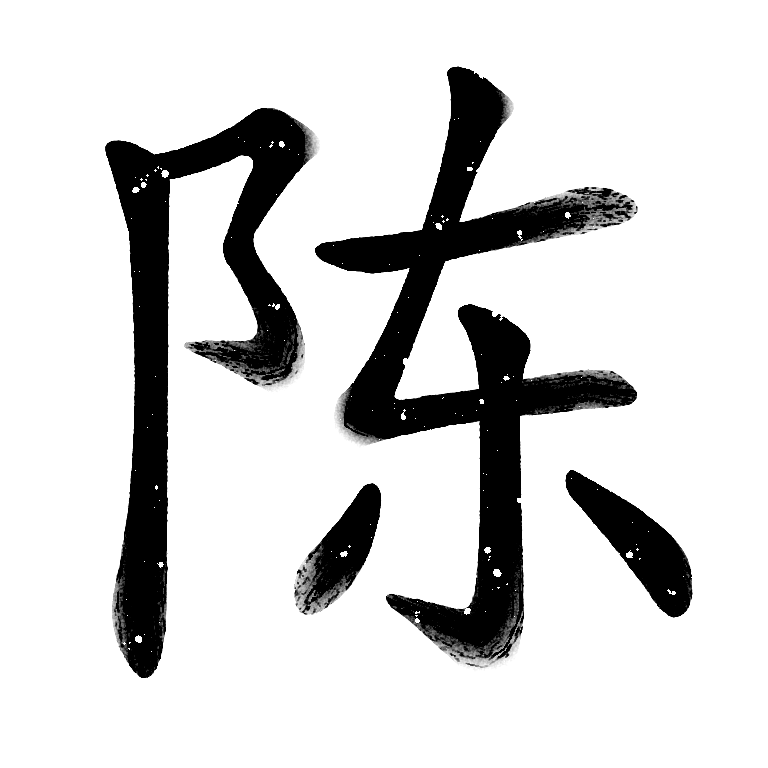
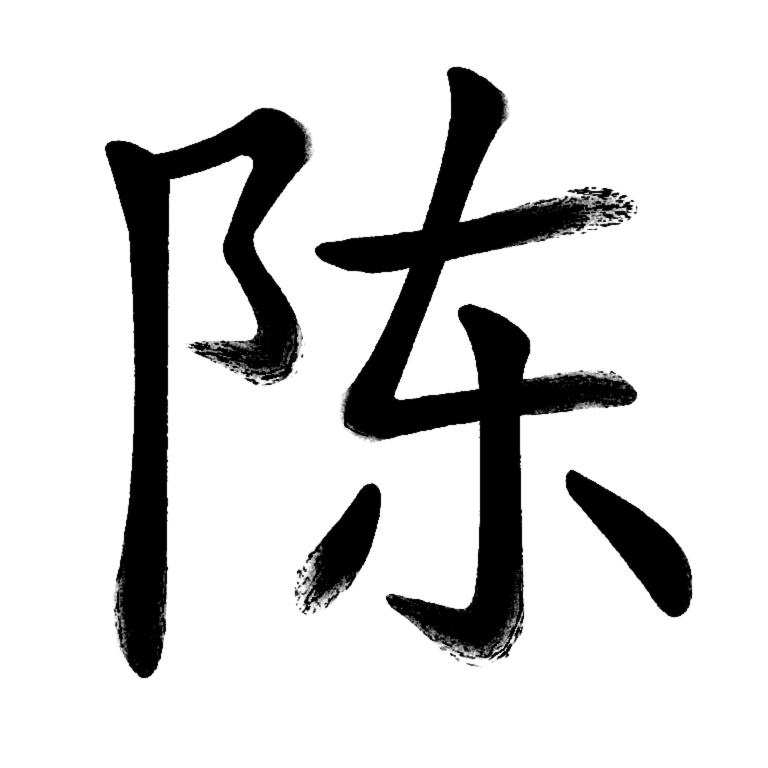
Crisp black name with live white paint flicks; click the name to flick more
Claude-Session: https://claude.ai/code/session_01T5woLKjRtQDJP5PPED7MXK

diff --git a/index.html b/index.html
@@ -329,7 +329,7 @@ dialog.drawer[open]{animation:slide .5s var(--ease)}
     <p class="fine" aria-hidden="true">Caroline Chen / Portfolio 2026 / UX, brand, print, motion</p>
     <div class="hero-foot">
       <div><p class="tag">Watch people.<br>Then build.</p><p class="who">Caroline Chen, a designer across UX, brand, print and motion, trained in design and economics.</p></div>
-      <span class="hint" id="hint">Hover the name, or click anywhere</span>
+      <span class="hint" id="hint">Click the name to flick paint</span>
       <div class="right"><p><span class="pill"><span class="dot" aria-hidden="true"></span>Open to full-time roles</span></p><button class="btn sm replay" type="button" id="replay"><span class="ico ico-knot" aria-hidden="true"></span>Write it again</button></div>
     </div>
   </section>
@@ -829,21 +829,46 @@ tick(); setInterval(tick,15000);
   function texture(){}
   function redrawGlyph(){ gx.setTransform(1,0,0,1,0,0); gx.clearRect(0,0,glyph.width,glyph.height); SEQ.forEach((s,k)=>{ if(drawn[k]>0) paintStroke(k,drawn[k]); }); if(done) texture(); syncLayers(); }
   function redrawMarks(){ mx.setTransform(1,0,0,1,0,0); mx.clearRect(0,0,mk.width,mk.height); SEQ.forEach((s,k)=>{ if(air[k]>0) drawAir(k,air[k]); }); }
+  /* white paint flicked across the ink: drops live in each character's own space so they stay put on resize */
+  const drops=[]; let spatUntil=0;
+  function flick(x0,y0,ang,power,delay=0){
+    const now=performance.now()+delay, R=rng((x0*7+y0*13+drops.length*31)|0), u=G/1024;
+    const add=(x,y,r,el,a,dt)=>{ let ci=0,best=1e9; boxes.forEach((b,i)=>{ const d=Math.hypot(x-(b.x+G/2),y-(b.y+G/2)); if(d<best){best=d;ci=i;} });
+      drops.push({ci,x:(x-boxes[ci].x)/G,y:(y-boxes[ci].y)/G,r:r/G,el,a,t:now+dt,lump:[R(),R(),R()]}); };
+    const ca=Math.cos(ang), sa=Math.sin(ang);
+    add(x0,y0,power*(5+R()*4)*u*3,1+R()*.3,ang,0);                       // the landing blot
+    const n=11+Math.floor(R()*12);
+    for(let k=1;k<=n;k++){ const d=power*u*3*(8+k*k*1.1+R()*16), sp=(R()-.5)*d*.3, r=power*u*3*Math.max(.55,(4.6-k*.22)*(.45+R()*.8));
+      add(x0+ca*d-sa*sp, y0+sa*d+ca*sp, r, 1.3+R()*1.6+k*.08, ang, 18*k+R()*30); }
+    for(let k=0;k<46;k++){ const d=power*u*3*(4+Math.pow(R(),.7)*80), q=ang+(R()-.5)*2.2; add(x0+Math.cos(q)*d,y0+Math.sin(q)*d,u*3*(.4+Math.pow(R(),2)*1.6),1+R()*.4,q,30+R()*200); }  // mist
+    if(drops.length>900) drops.splice(0,drops.length-900);
+    spatUntil=Math.max(spatUntil,now+600);
+  }
+  function paintSpatter(){
+    const now=performance.now(); ix.save(); ix.setTransform(DPR,0,0,DPR,0,0); ix.fillStyle="#fbfaf7";
+    for(const d of drops){ const age=now-d.t; if(age<0) continue; const k=reduce?1:Math.min(1,age/140), pop=k<1?k*1.18:1;
+      const b=boxes[d.ci], x=b.x+d.x*G, y=b.y+d.y*G, r=d.r*G*pop; if(r<.25) continue;
+      ix.beginPath(); ix.ellipse(x,y,r*d.el,r,d.a,0,6.2832); ix.fill();
+      if(r>1.4){ for(let j=0;j<3;j++){ const q=d.a+d.lump[j]*6.28, rr=r*(.45+.3*d.lump[(j+1)%3]); ix.beginPath(); ix.arc(x+Math.cos(q)*r*.75,y+Math.sin(q)*r*.75,rr,0,6.2832); ix.fill(); } } }
+    ix.restore();
+  }
+  function flickSet(){ const cx=bbox.x, cy=bbox.y; const P=vertical?[[.15,.2,.9],[.85,1.3,2.2],[.2,2.1,.6],[.6,.75,-.4],[.5,2.5,3.6]]:[[.35,.25,.25],[1.55,.7,2.9],[2.45,.2,1.9],[.9,.85,-.3],[2.1,.55,.6],[.25,.7,1.2],[1.35,.15,3.4]];
+    P.forEach(([u,v,a],i)=>flick(cx+u*G,cy+v*G,a+(Math.random()-.5)*.4,.8+Math.random()*.5,i*260)); }
   const TEX=[0,1,2].map(i=>{ const im=new Image(); im.src=`assets/sym/name-${i}.webp`; return im; });
   const texC=document.createElement("canvas"), tx=texC.getContext("2d"), inkd=document.createElement("canvas"), ix=inkd.getContext("2d");
   function buildTex(){ texC.width=inkd.width=glyph.width; texC.height=inkd.height=glyph.height; tx.setTransform(DPR,0,0,DPR,0,0); tx.clearRect(0,0,W,H); TEX.forEach((im,i)=>{ if(im.complete&&im.naturalWidth) tx.drawImage(im,boxes[i].x,boxes[i].y,G,G); }); }
-  function syncLayers(){ ix.setTransform(1,0,0,1,0,0); ix.globalCompositeOperation="source-over"; ix.clearRect(0,0,inkd.width,inkd.height); ix.drawImage(texC,0,0); ix.globalCompositeOperation="destination-in"; ix.drawImage(glyph,0,0); ix.globalCompositeOperation="source-over"; }
+  function syncLayers(){ ix.setTransform(1,0,0,1,0,0); ix.globalCompositeOperation="source-over"; ix.clearRect(0,0,inkd.width,inkd.height); ix.drawImage(texC,0,0); ix.globalCompositeOperation="destination-in"; ix.drawImage(glyph,0,0); ix.globalCompositeOperation="source-over"; paintSpatter(); }
 
   // ripples: rings on the paper; the name refracts as each ring passes through it
   function liveRipples(now){
     ripples=ripples.filter(r=>now-r.t<LIFE);
     const out=[]; const cx=bbox.x+bbox.w/2, cy=bbox.y+bbox.h/2, half=Math.hypot(bbox.w,bbox.h)/2+G*.2;
-    for(const rp of ripples){ const age=now-rp.t, r=age*SPEED, band=46+age*.025, amp=G*.075*(1-age/LIFE), d=Math.hypot(cx-rp.x,cy-rp.y);
+    for(const rp of ripples){ const age=Math.max(0,now-rp.t), r=age*SPEED, band=46+age*.025, amp=G*.075*(1-age/LIFE), d=Math.hypot(cx-rp.x,cy-rp.y);
       if(r+band>d-half && r-band<d+half) out.push({x:rp.x,y:rp.y,r,band,amp}); }
     return out;
   }
   function drawRipples(now){
-    for(const rp of ripples){ const age=now-rp.t, a=1-age/LIFE; if(a<=0) continue; const r=age*SPEED;
+    for(const rp of ripples){ const age=Math.max(0,now-rp.t), a=1-age/LIFE; if(a<=0) continue; const r=age*SPEED;
       const g=bx.createRadialGradient(rp.x,rp.y,Math.max(0,r-30),rp.x,rp.y,r+30); g.addColorStop(0,"rgba(0,0,0,0)"); g.addColorStop(.5,`rgba(0,0,0,${.075*a})`); g.addColorStop(1,"rgba(0,0,0,0)");
       bx.fillStyle=g; bx.beginPath(); bx.arc(rp.x,rp.y,r+30,0,7); bx.fill();
       bx.lineWidth=1; [[1,.3],[.9,.16],[.79,.09],[.66,.05]].forEach(([m,al])=>{ bx.strokeStyle=`rgba(0,0,0,${al*a})`; bx.beginPath(); bx.arc(rp.x,rp.y,r*m,0,7); bx.stroke(); });
@@ -869,13 +894,14 @@ tick(); setInterval(tick,15000);
         if(f>drawn[k]){ const e=ease(f); paintStroke(k,e); drawn[k]=f; if(f<1){ const c=CH[s.ci]; tip=toScreen(s.ci,pointAt(c.med[s.si],c.len[s.si],e)); } }
       });
       syncLayers();
-      if(t>=WRITE_END){ done=true; drawn=SEQ.map(()=>1); air=SEQ.map(()=>1); redrawGlyph(); hero.classList.add("done","scan"); artT=now; ripples.push({x:bbox.x+bbox.w/2,y:bbox.y+bbox.h/2,t:now}); }
+      if(t>=WRITE_END){ done=true; drawn=SEQ.map(()=>1); air=SEQ.map(()=>1); redrawGlyph(); hero.classList.add("done","scan"); artT=now; flickSet(); ripples.push({x:bbox.x+bbox.w/2,y:bbox.y+bbox.h/2,t:now}); }
       else if(t>WRITE_END*.5 && artT<0){ artT=now; hero.classList.add("scan"); }
     }
     render(now,tip);
   }
 
   function render(now,tip){
+    if(now<spatUntil) syncLayers();
     pmx+=(tmx-pmx)*.06; pmy+=(tmy-pmy)*.06;
     mk.style.transform=`translate(${pmx*8}px,${pmy*6}px)`;
     bx.setTransform(DPR,0,0,DPR,0,0); bx.clearRect(0,0,W,H);
@@ -907,12 +933,12 @@ tick(); setInterval(tick,15000);
   }
 
   function loop(now){ frame(now); if(visible) raf=requestAnimationFrame(loop); }
-  function finish(){ drawn=SEQ.map(()=>1); air=SEQ.map(()=>1); done=true; artT=1; hero.classList.add("done","scan"); redrawGlyph(); redrawMarks(); render(performance.now(),null); }
-  function replay(){ start=performance.now(); drawn=SEQ.map(()=>0); air=SEQ.map(()=>0); done=false; artT=-1; hero.classList.remove("done","scan"); redrawGlyph(); redrawMarks(); if(reduce) finish(); }
+  function finish(){ drawn=SEQ.map(()=>1); air=SEQ.map(()=>1); done=true; artT=1; if(!drops.length) flickSet(); hero.classList.add("done","scan"); redrawGlyph(); redrawMarks(); render(performance.now(),null); }
+  function replay(){ drops.length=0; start=performance.now(); drawn=SEQ.map(()=>0); air=SEQ.map(()=>0); done=false; artT=-1; hero.classList.remove("done","scan"); redrawGlyph(); redrawMarks(); if(reduce) finish(); }
 
   hero.addEventListener("pointermove",e=>{ const b=hero.getBoundingClientRect(); px=e.clientX-b.left; py=e.clientY-b.top; inside=true; tmx=(px/W-.5)*2; tmy=(py/H-.5)*2; });
   hero.addEventListener("pointerleave",()=>{ inside=false; tmx=tmy=0; });
-  hero.addEventListener("pointerdown",e=>{ if(e.target.closest("a,button")||reduce) return; const b=hero.getBoundingClientRect(); ripples.push({x:e.clientX-b.left,y:e.clientY-b.top,t:performance.now()}); if(ripples.length>6) ripples.shift(); lastDrop=performance.now(); });
+  hero.addEventListener("pointerdown",e=>{ if(e.target.closest("a,button")||reduce) return; const b=hero.getBoundingClientRect(); { const x=e.clientX-b.left, y=e.clientY-b.top; if(done&&x>bbox.x-G*.3&&x<bbox.x+bbox.w+G*.3&&y>bbox.y-G*.3&&y<bbox.y+bbox.h+G*.3) flick(x,y,Math.random()*6.28,.7+Math.random()*.6); } ripples.push({x:e.clientX-b.left,y:e.clientY-b.top,t:performance.now()}); if(ripples.length>6) ripples.shift(); lastDrop=performance.now(); });
   $("#replay").addEventListener("click",replay);
   let rT=0; addEventListener("resize",()=>{ clearTimeout(rT); rT=setTimeout(()=>{ layout(); if(reduce) render(performance.now(),null); },120); });
   const ready=()=>{ layout(); if(reduce){ finish(); } else { start=performance.now(); raf=requestAnimationFrame(loop);
